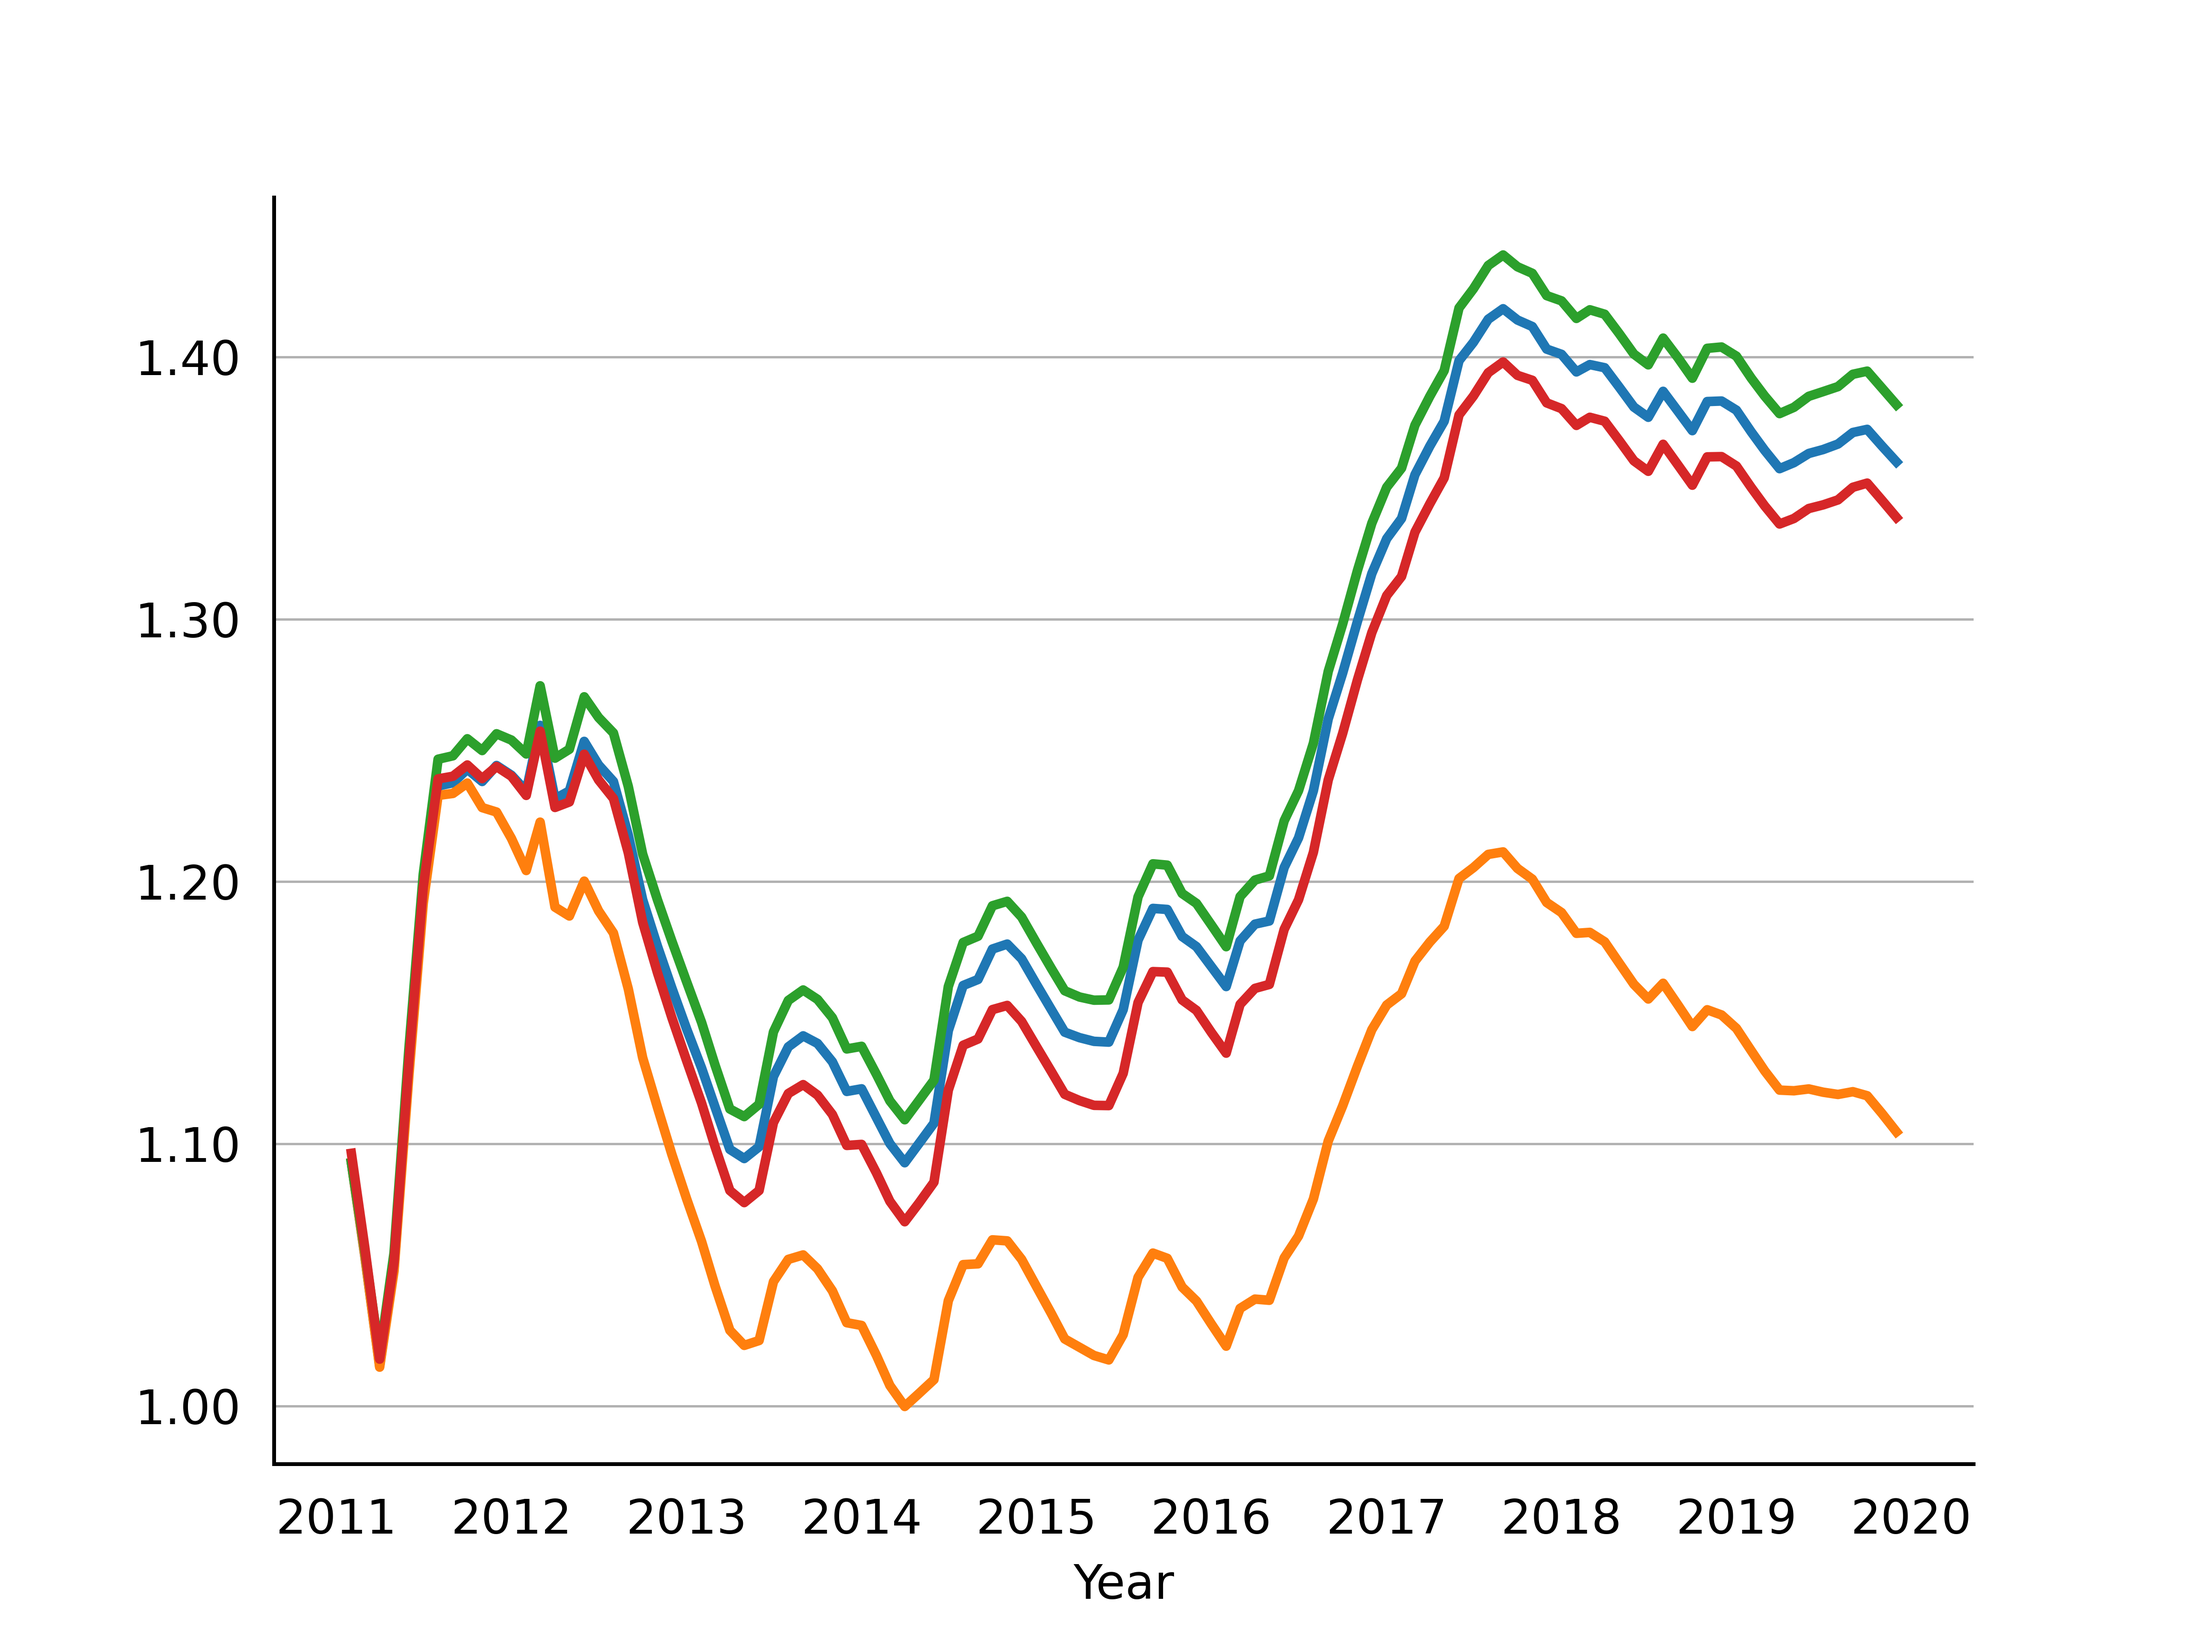
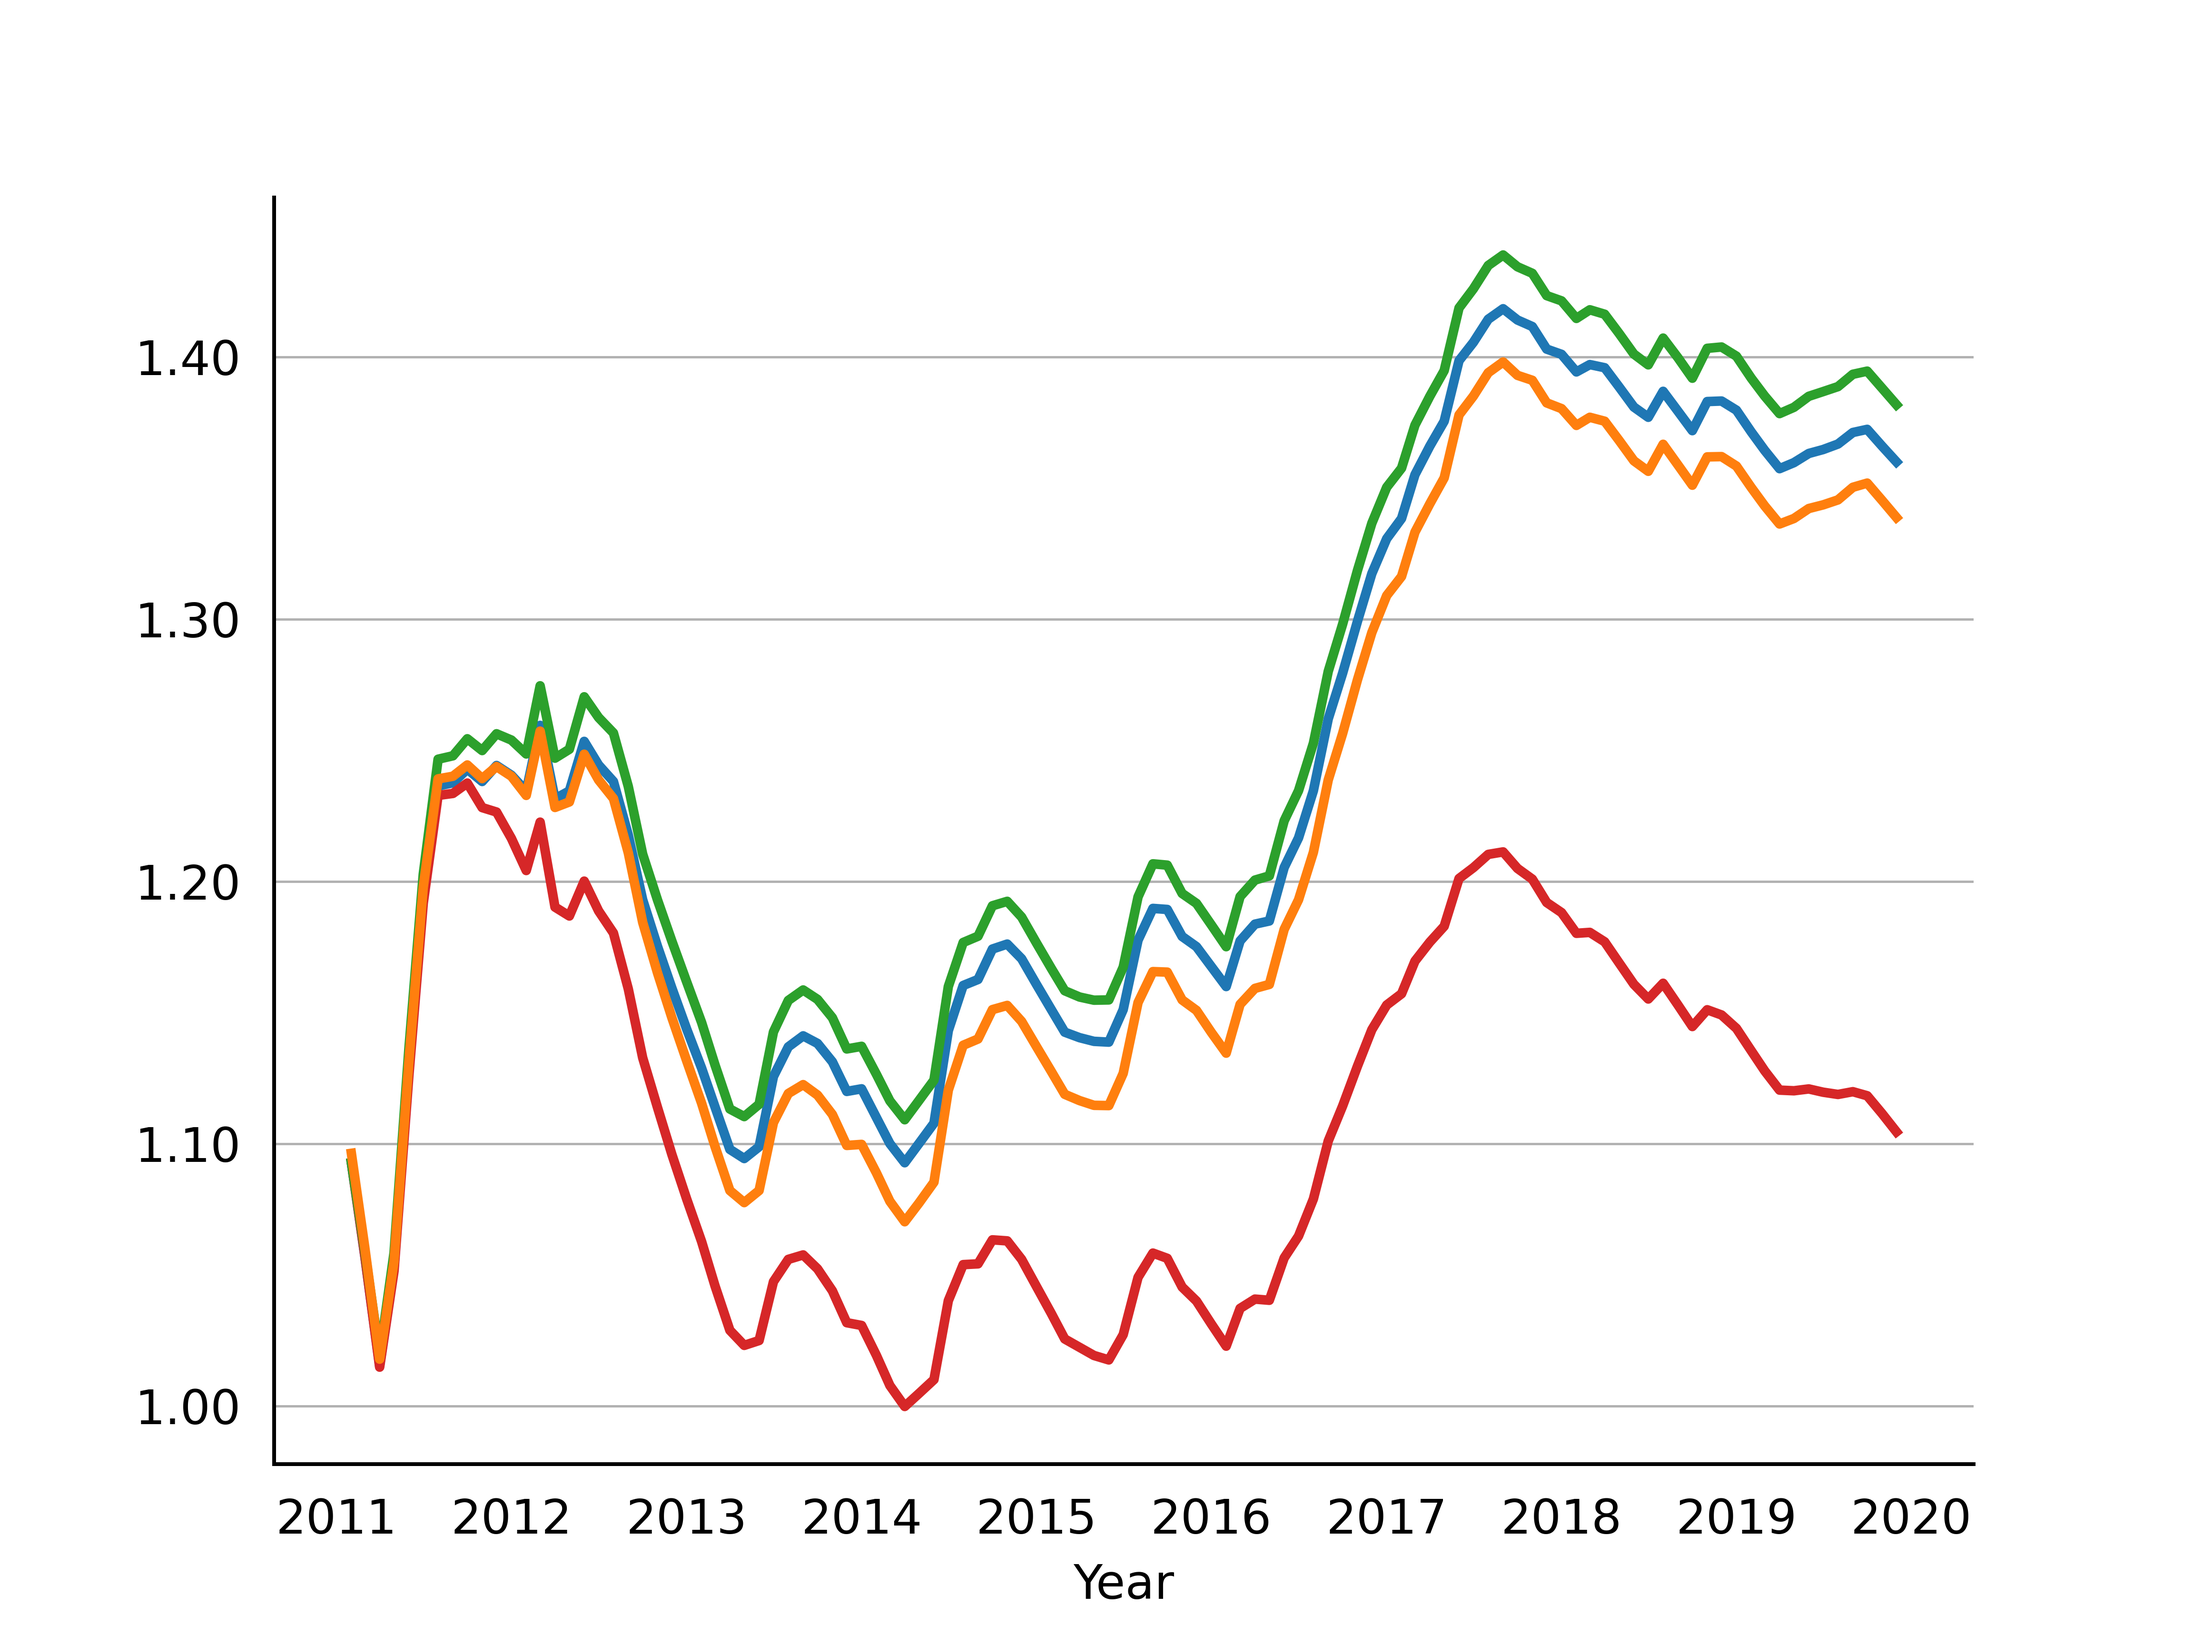
arXiv version

diff --git a/post_analysis/simple_plot.py b/post_analysis/simple_plot.py
@@ -10,27 +10,26 @@ from analysis.output import OUTPUT_DATA_SPEC as cols
 def prepare_data(file, labels):
     database = dict()
     for each in os.listdir(file):
-        data = pd.read_csv(os.path.join(file, each), header=None, sep=';', names=labels)
-        data['month'] = pd.to_datetime(data.month).dt.date
-        data = data[data.loc[:, 'month'] > datetime.date(2011, 1, 1)]
-        database[each.split('.')[0][9:]] = data
+        d = pd.read_csv(os.path.join(file, each), header=None, sep=';', names=labels)
+        d['month'] = pd.to_datetime(d.month).dt.date
+        d = d[d.loc[:, 'month'] > datetime.date(2011, 1, 1)]
+        database[each.split('.')[0][9:]] = d
     return database
 
 
 def plot(database, lbls, dpi=720, ft='png'):
-    colors = ['tab:blue', 'tab:orange', 'tab:green', 'tab:red']
-    policies = {'buy': 'Acquisition', 'no_policy': 'No Policy', 'rent': 'Rent voucher',
-                'wage': 'Monetary aid'}
+    colors = {'buy': 'tab:red', 'no_policy': 'tab:orange', 'rent': 'tab:blue', 'wage': 'tab:green'}
     fmts = {'gdp_index': '{:.0f}',
             'families_median_wealth': '{:.2f}',
             'gini_index': '{:.3f}',
             'average_utility': '{:.2f}'}
 
     for lb in lbls:
-        if lb in ['gdp_index', 'families_median_wealth', 'gini_index', 'average_utility']:
+        # if lb in ['gdp_index', 'families_median_wealth', 'gini_index', 'average_utility']:
+        if lb not in ['month']:
             fig, ax = plt.subplots(dpi=dpi)
             for i, data in enumerate(database):
-                database[data].plot('month', lb, ax=ax, linewidth=2, color=colors[i])
+                database[data].plot('month', lb, ax=ax, linewidth=2, color=colors[data])
 
             ax.spines['top'].set_visible(False)
             ax.spines['bottom'].set_visible(True)
@@ -39,7 +38,7 @@ def plot(database, lbls, dpi=720, ft='png'):
             ax.get_xaxis().tick_bottom()
             ax.get_yaxis().tick_left()
             ax.get_legend().remove()
-            fmt = fmts[lb]
+            fmt = fmts[lb] if lb in fmts else '{:.2f}'
             ax.yaxis.set_major_formatter(plt.FuncFormatter(fmt.format))
             ax.set(xlabel='Year')
             plt.grid(True, 'major', 'y', ls='-', lw=.5, c='k', alpha=.3)
@@ -59,4 +58,5 @@ if __name__ == '__main__':
     # plt.show()
 
     f = r'../PS_text/policy_data'
-    plot(prepare_data(f, dta.columns), cols['stats']['columns'])
+    data = prepare_data(f, dta.columns)
+    # plot(prepare_data(f, dta.columns), cols['stats']['columns'])

diff --git a/README.md b/README.md
@@ -3,6 +3,28 @@ PolicySpace2: Real Estate Modeling
 <img alt="GitHub stars" src="https://img.shields.io/github/stars/bafurtado/policyspace2.svg?color=orange">  ![GitHub All Releases](https://img.shields.io/github/downloads/bafurtado/policyspace2/total) ![GitHub](https://img.shields.io/github/license/bafurtado/policyspace2)  ![GitHub forks](https://img.shields.io/github/forks/bafurtado/policyspace2)
 ------
 
+First preliminary documented results are out:
+
+## https://arxiv.org/abs/2102.11929
+
+Policymakers decide on alternative policies facing restricted budgets and uncertain, 
+ever-changing future. Designing housing policies is further difficult giving the 
+heterogeneous characteristics of properties themselves and the intricacy of housing 
+markets and the spatial context of cities. We propose PolicySpace2 (PS2) as an 
+adapted and extended version of the open source PolicySpace agent-based model. 
+PS2 is a computer simulation that relies on empirically detailed spatial data 
+to model real estate, along with labor, credit and goods and services markets. 
+Interaction among workers, firms, a bank, households and municipalities follow 
+the literature benchmarks to integrate economic, spatial and transport literature. 
+PS2 is applied to a comparison among three competing municipal housing policies 
+aimed at alleviating poverty: (a) property acquisition and distribution, (b) 
+rental vouchers and (c) monetary aid. Within the model context, the monetary aid, 
+that is, a smaller amounts of help for a larger number of households, 
+makes the economy perform better in terms of production, consumption, 
+reduction of inequality and maintenance of financial duties. PS2 as such is also 
+a framework that may be further adapted to a number of related research questions. 
+
+
 This is an evolution of PolicySpace  
 <img alt="GitHub stars" src="https://img.shields.io/github/stars/bafurtado/policyspace.svg?color=orange">  ![GitHub forks](https://img.shields.io/github/forks/bafurtado/policyspace)
  ---
